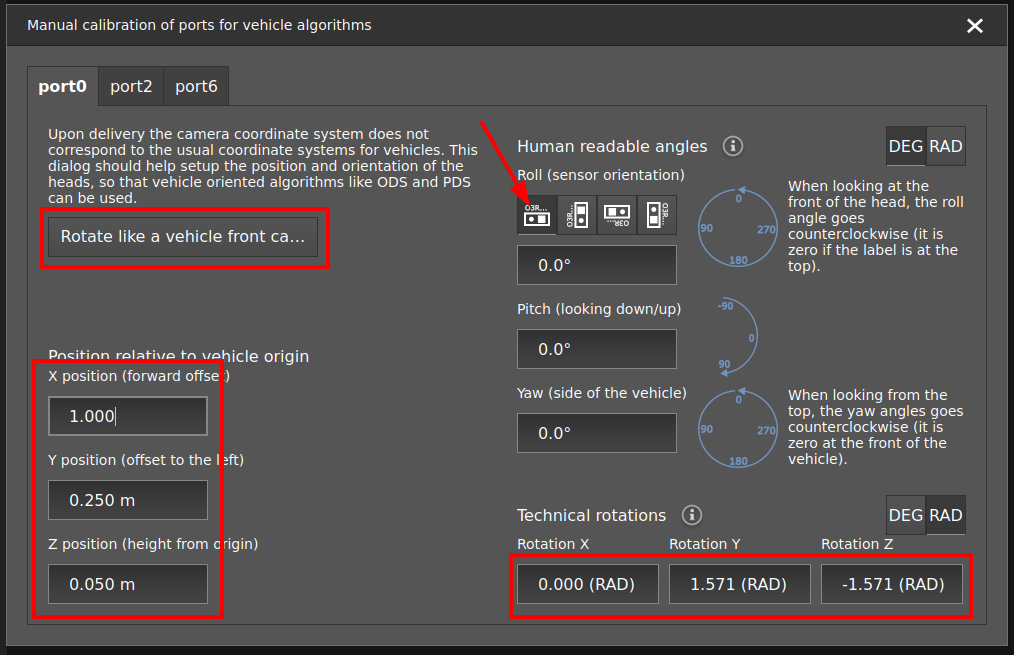
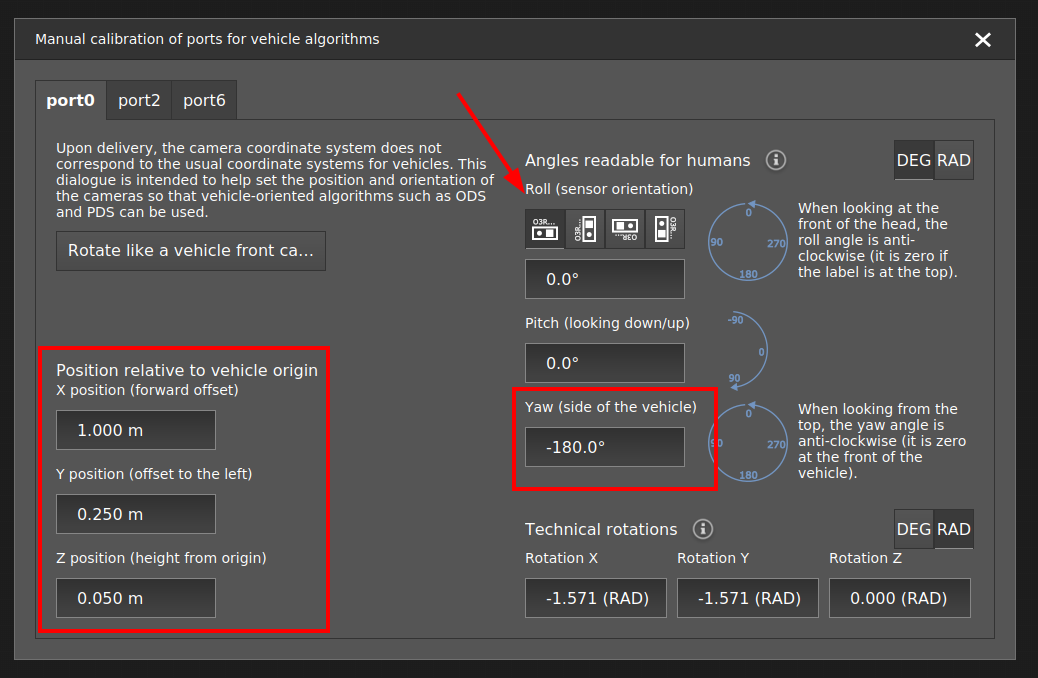
Add another example to PDS calibration plus a section about RCS correspondence

diff --git a/PDS/Calibration/pds_calibration.md b/PDS/Calibration/pds_calibration.md
@@ -3,8 +3,8 @@
 The PDS application always returns the position of an object with respect to the calibrated coordinate system. Typically, the calibrated coordinate system corresponds to the fork tines, so that the coordinate system will go up and down with the forks and the pallet position will always be provided with reference to the current position of the forks.
 
 ## Concepts
-
-PDS expects the orientation of the coordinate frame to be as follows:
+### PDS' coordinate system
+PDS expects the orientation of the coordinate system to be as follows:
 - X is pointing in direction of the forks,
 - Y is pointing to the left of the forks,
 - Z is pointing up.
@@ -15,20 +15,30 @@ When uncalibrated, the camera coordinate system is such that Z is pointing away 
 
 The uncalibrated coordinate system does not correspond to what PDS expects. Consequently, if no calibration is set, PDS will raise an error.
 
-To fit the expected coordinate system of PDS, the coordinate system has to be rotated. An example of a correctly calibrated coordinate system would be as shown in the image below, where the origin of the coordinate system is place at the center of the base of the forks:
+To fit the expected coordinate system of PDS, the coordinate system has to be rotated. An example of a correctly calibrated coordinate system would be as shown in the image below, where the origin of the coordinate system is placed at the center of the base of the forks:
 
 ![Coordinate system calibrated to the center of the base of the forks](resources/forks_base_center_coord_sys.png)
 
 Note that the user can decide where to place the origin of the coordinate system. We show a couple examples [below](#examples).
 
 PDS will look for a pallet within a defined volume of interest. By default, it expects the camera to be placed between 22 and 35 cm above the bottom plane of the pallet. 
-TODO: add details about the VOI, understand how VOI changes with calibration.
+For more details about the volume of interest for the different PDS commands, refer to their respective documentation.
 
 Note that errors in the camera calibration will lead to errors in the position of the targeted object. If CAD data is known to be precise enough, it can be used to extract calibration values for the camera. Otherwise, any of [the calibration methods](/SoftwareInterfaces/Toolbox/ExtrinsicCalibration/README.md) provided by ifm can be used.
 
+### Robot's coordinate system
+Typically, PDS' coordinate system will be different from the Robot Coordinate System (RCS):
+- The RCS is usually in a fixed position on the robot's chassis, when PDS's coordinate systems moves with the forks. The transformation between the RCS and the PDS coordinate system will depend on the position of the forks.
+- The RCS is typically in the middle of the steering axis, when PDS's coordinate system is located around the forks base or tip.
+- The axis of the RCS and the PDS coordinate systems will typically be parallel. The X axis of the RCS typically points in the direction of travel, and PDS' coordinate system X axis points in the direction of the forks, which would typically be towards the back of the vehicle. X and Y axis will consequently be pointing in opposite directions in the RCS and the PDS coordinate system. The Z axis will point upwards in both coordinate system.
+
+:::{note}
+Note that these comments represent most typical use cases, but your coordinate systems might be different. The coordinate systems can be adjusted to fit your specific setup.
+:::
+
 ## Examples
 
-### Horizontally mounted camera, tip of fork coordinate system
+### Tip of fork coordinate system
 Let's take for example a camera mounted horizontally, looking straight ahead, directly between the two forks. 
 Let's assume the fork tines coordinate system's origin is at the tip of the right fork, like shown in the image below:
 ![Coordinate system calibrated to the tip of the right fork](resources/forks_tips_coord_sys.png)
@@ -49,9 +59,9 @@ This is equivalent to setting the following parameters in the relevant port's JS
             "processing":{
                 "extrinsicHeadToUser":{
                     {
-                        "rotX": 0,
-                        "rotY": 1.57,
-                        "rotZ": -1.57,
+                        "rotX": -1.57,
+                        "rotY": -1.57,
+                        "rotZ": 0,
                         "transX": 1.00,
                         "transY": 0.25,
                         "transZ": 0.05
@@ -62,4 +72,42 @@ This is equivalent to setting the following parameters in the relevant port's JS
     }
 }
 ```
-### Other example
+
+:::{note}
+Note that the X axis is pointing backwards with respect to the RCS. This explains why we have the 180 yaw angle.
+:::
+### Base of forks coordinate system
+
+Let's take another example and assume the camera is mounted horizontally pointing forward, directly between the two forks, and the origin of the coordinate system is at the base of forks, right between the two forks, as shown in the image below:
+![Coordinate system calibrated to the center of the base of the forks](resources/forks_base_center_coord_sys_with_cam.png)
+
+Let's assume that the center of the coordinate system is 5 cm below the camera, and on the same (YZ) plane:
+![Measurements between the camera and the coordinate system](resources/translation_to_forks_base_center.png) 
+
+With these measurements, we would have the following calibration values:
+![Calibration values with the coordinate system at the base of the forks](resources/calibration_values_fork_base.png)
+This is equivalent to setting the following parameters in the relevant port's JSON configuration:
+```json
+{
+    "ports":{
+        "portX":{
+            "processing":{
+                "extrinsicHeadToUser":{
+                    {
+                        "rotX": -1.57,
+                        "rotY": -1.57,
+                        "rotZ": 0,
+                        "transX": 0.00,
+                        "transY": 0.00,
+                        "transZ": 0.05
+                    }
+                }
+            }
+        }
+    }
+}
+```
+
+:::{note}
+Note that the X axis is pointing backwards with respect to the RCS. This explains why we have the 180 yaw angle.
+:::
